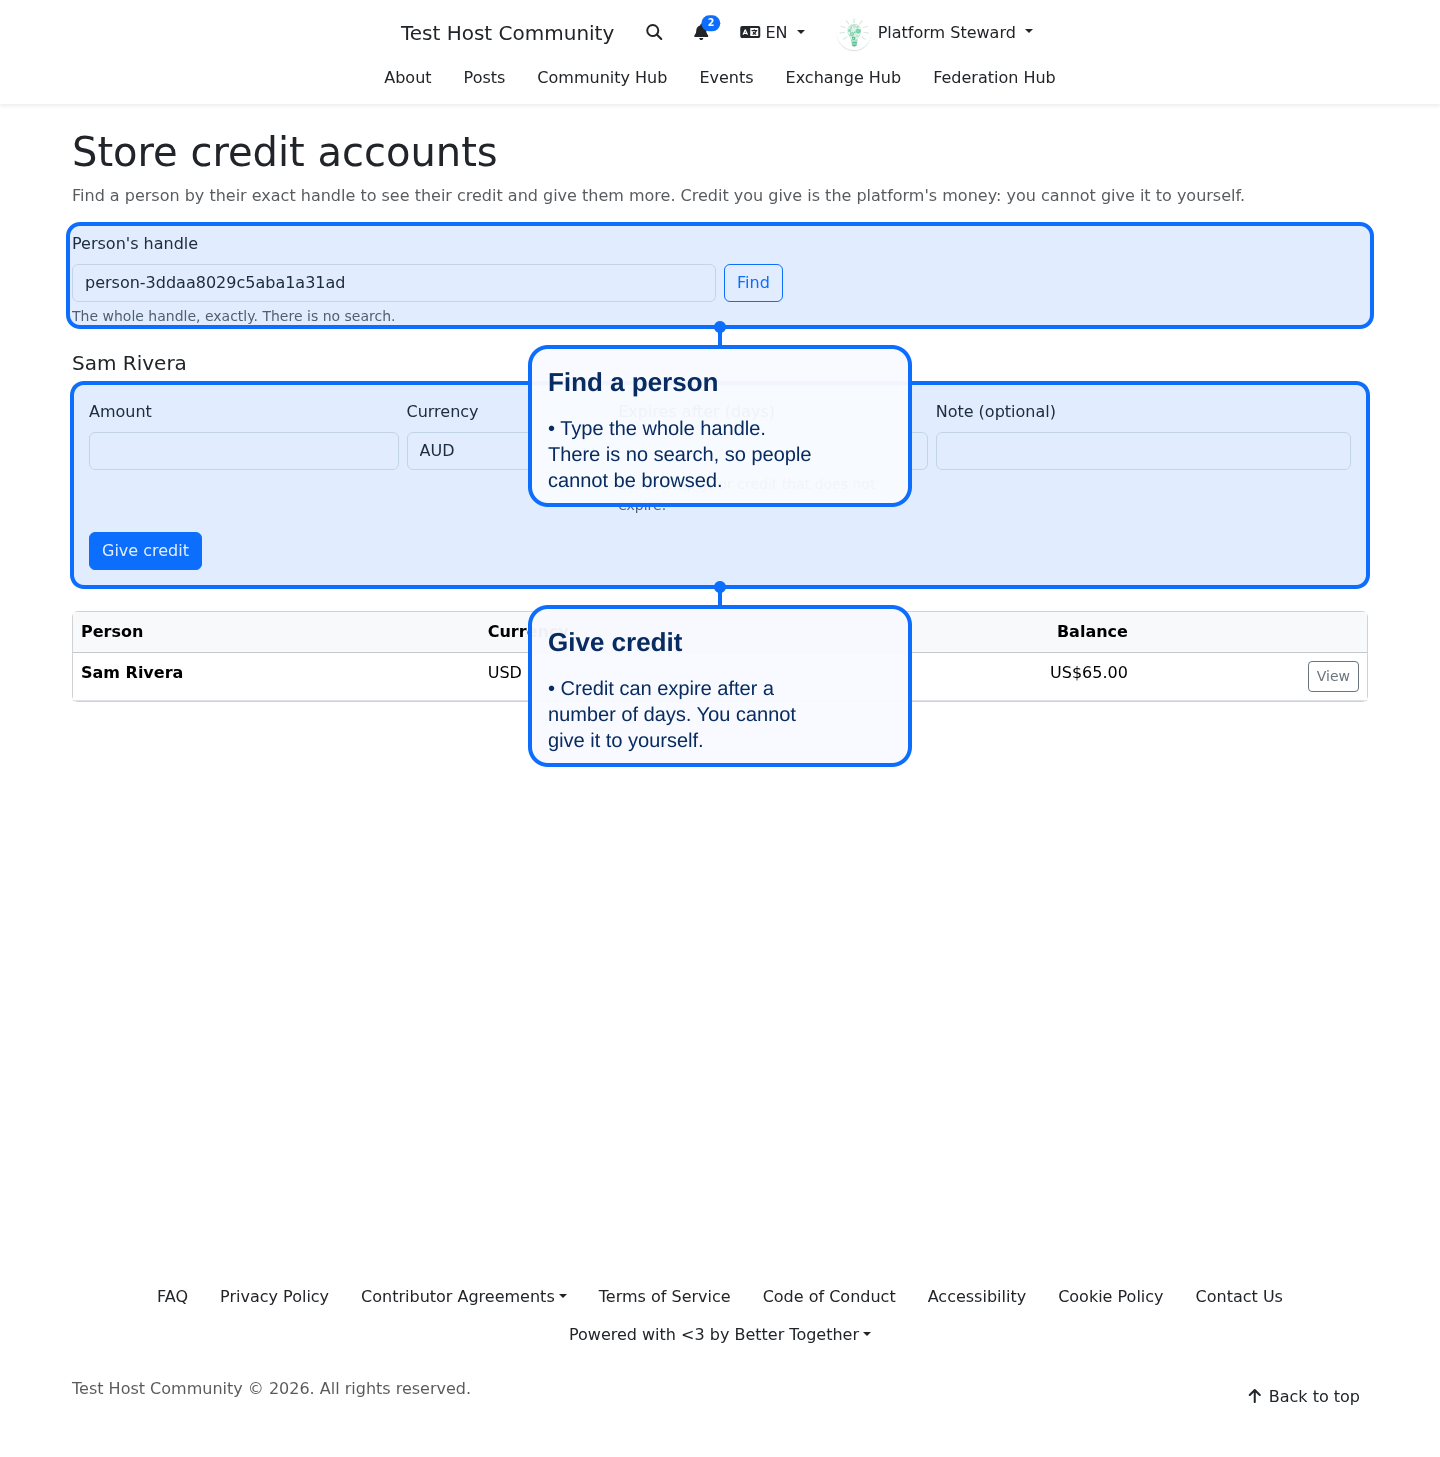
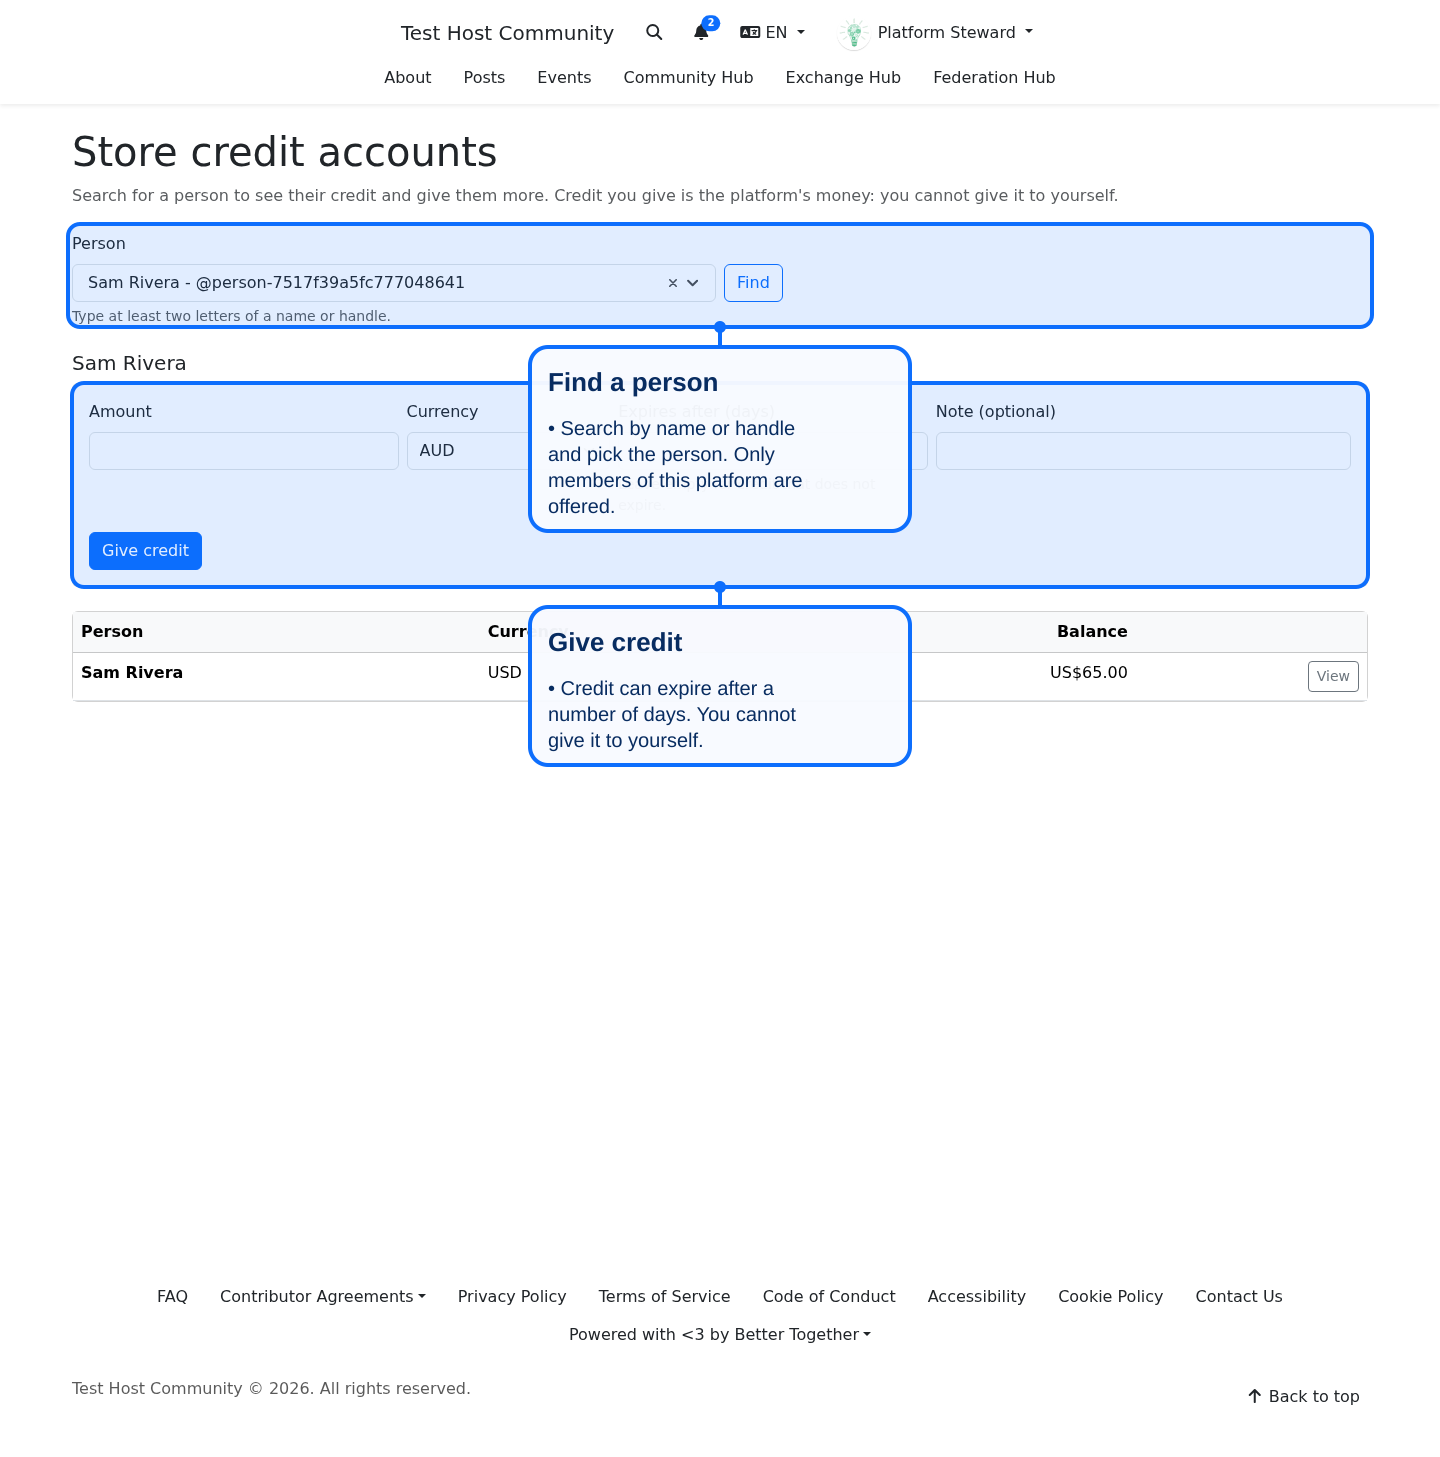
feat(billing): pick a person with the slim-select to find store credit
The steward lookup asked for an exact handle. It now uses the shared
better-together--slim-select controller with a billing-scoped people
search (name or start of a handle, at least two characters, 20 results,
platform members only, steward permission, throttled). The grant form
carries person_id only. Locales, docs, specs and screenshots updated.

diff --git a/spec/requests/better_together/billing/credit_accounts_controller_spec.rb b/spec/requests/better_together/billing/credit_accounts_controller_spec.rb
@@ -58,30 +58,67 @@ RSpec.describe BetterTogether::Billing::CreditAccountsController do
       get accounts_path
 
       expect(response).to have_http_status(:ok)
-      expect(response.body).to include('billing-credit-accounts-page', 'billing-credit-lookup-form', 'billing-credit-lookup-handle',
+      expect(response.body).to include('billing-credit-accounts-page', 'billing-credit-lookup-form', 'billing-credit-lookup-person',
                                        'billing-credit-accounts-table')
       expect_html_content(buyer.name)
     end
 
-    it 'finds a person by their exact handle and offers to give them credit' do
-      get accounts_path(handle: other_buyer.identifier)
+    it 'finds a person picked in the select and offers to give them credit' do
+      create(:better_together_person_platform_membership, joinable: host_platform, member: other_buyer)
+
+      get accounts_path(person_id: other_buyer.id)
 
       expect(response.body).to include('billing-credit-holder', 'billing-credit-grant-form', 'billing-credit-grant-amount',
                                        'billing-credit-grant-btn')
       expect_html_content(other_buyer.name)
     end
 
-    it 'finds no one from part of a handle, so it cannot be used to browse people' do
-      get accounts_path(handle: other_buyer.identifier[0, 4])
+    it 'says so for a person id that is not on this platform' do
+      get accounts_path(person_id: SecureRandom.uuid)
 
       expect(response.body).to include('billing-credit-lookup-failed')
       expect(response.body).not_to include('billing-credit-grant-form')
     end
 
-    it 'says the same for a handle that does not exist' do
-      get accounts_path(handle: 'nobody-by-this-name')
+    describe 'GET people (the select search)' do
+      let(:member) do
+        create(:better_together_person_platform_membership, joinable: host_platform, member: other_buyer)
+        other_buyer
+      end
 
-      expect(response.body).to include('billing-credit-lookup-failed')
+      it 'finds platform members by the start of a handle' do
+        get better_together.billing_people_credit_accounts_path(locale:, search: member.identifier[0, 5]), as: :json
+
+        expect(response.parsed_body).to include(a_hash_including('value' => member.id, 'text' => member.select_option_title))
+      end
+
+      it 'finds platform members by part of a name' do
+        get better_together.billing_people_credit_accounts_path(locale:, search: member.name[1, 4]), as: :json
+
+        expect(response.parsed_body.pluck('value')).to include(member.id)
+      end
+
+      it 'returns nothing for a term shorter than two characters, so it cannot list everyone' do
+        get better_together.billing_people_credit_accounts_path(locale:, search: 'a'), as: :json
+
+        expect(response.parsed_body).to eq([])
+      end
+
+      it 'leaves out people who are not members of this platform' do
+        stranger = create(:better_together_person)
+
+        get better_together.billing_people_credit_accounts_path(locale:, search: stranger.identifier), as: :json
+
+        expect(response.parsed_body.pluck('value')).not_to include(stranger.id)
+      end
+
+      it 'turns a signed-in non-steward away' do
+        sign_in buyer_user
+
+        get better_together.billing_people_credit_accounts_path(locale:, search: 'ab'), as: :json
+
+        expect(response).not_to have_http_status(:ok)
+      end
     end
 
     it 'shows an account\'s lots and entries, with who gave it' do

diff --git a/app/controllers/better_together/billing/credit_accounts_controller.rb b/app/controllers/better_together/billing/credit_accounts_controller.rb
@@ -2,19 +2,29 @@
 
 module BetterTogether
   module Billing
-    # A steward finds a person's store credit by their exact handle (there is no search and no list of
-    # everyone), sees every lot and entry, and can give credit from there (see CreditGrantsController).
+    # A steward picks a person (a search over this platform's members, see #people), sees their credit, every
+    # lot and entry, and can give credit from there (see CreditGrantsController).
     class CreditAccountsController < ApplicationController
       include OwnerScoped
+
+      PEOPLE_LIMIT = 20
 
       after_action :verify_authorized
 
       def index
         authorize BetterTogether::Billing::CreditAccount, :index?
-        @handle = params[:handle].to_s.strip
-        @holder = find_holder(@handle) if @handle.present?
-        @lookup_failed = @handle.present? && @holder.nil?
+        @person_id = params[:person_id].to_s.strip
+        @holder = find_holder(@person_id) if @person_id.present?
+        @lookup_failed = @person_id.present? && @holder.nil?
         @accounts = listed_accounts
+      end
+
+      # Options for the person select: [{ value:, text: }], at most 20, matching a name or the start of a handle.
+      def people
+        authorize BetterTogether::Billing::CreditAccount, :index?
+        render json: matching_people(params[:search].to_s.strip).limit(PEOPLE_LIMIT).map { |person|
+          { value: person.id, text: person.select_option_title }
+        }
       end
 
       def show
@@ -37,8 +47,37 @@ module BetterTogether
         listed_with_holders.where.not(balance_cents: 0).order(updated_at: :desc).limit(50)
       end
 
-      # Exactly the handle, never a partial match, so this cannot be used to browse people.
-      def find_holder(handle) = BetterTogether::Person.find_by(identifier: handle.downcase)
+      # Only people who belong to this platform (or, on the host platform, its community), so a steward cannot
+      # reach anyone outside it. Same membership rule as the invitation search.
+      def platform_people
+        ids = BetterTogether::PersonPlatformMembership.active.where(joinable: billing_owner).pluck(:member_id)
+        community = billing_owner.community
+        if billing_owner.host? && community.present?
+          ids |= BetterTogether::PersonCommunityMembership.active.where(joinable: community).pluck(:member_id)
+        end
+        BetterTogether::Person.where(id: ids)
+      end
+
+      def find_holder(person_id) = platform_people.find_by(id: person_id)
+
+      # A search term is needed, so the endpoint does not list everyone.
+      def matching_people(term)
+        return BetterTogether::Person.none if term.length < 2
+
+        like = BetterTogether::Person.sanitize_sql_like(term)
+        matches = platform_people.where(id: named_like(like)).or(platform_people.where(id: handled_like(like)))
+        matches.includes(:string_translations).order(:identifier)
+      end
+
+      def named_like(like)
+        values = Mobility::Backends::ActiveRecord::KeyValue::StringTranslation.arel_table
+        BetterTogether::Person.joins(:string_translations).where(values[:key].eq('name'))
+                              .where(values[:value].matches("%#{like}%")).select(:id)
+      end
+
+      def handled_like(like)
+        BetterTogether::Person.where(BetterTogether::Person.arel_table[:identifier].matches("#{like}%")).select(:id)
+      end
     end
   end
 end

diff --git a/spec/docs_screenshots/better_together/billing_credit_spec.rb b/spec/docs_screenshots/better_together/billing_credit_spec.rb
@@ -24,6 +24,7 @@ RSpec.describe 'Documentation screenshots for store credit', # rubocop:disable R
     skip 'Set RUN_DOCS_SCREENSHOTS=1 to generate documentation screenshots.' unless ENV['RUN_DOCS_SCREENSHOTS'] == '1'
 
     Current.platform = host_platform
+    create(:better_together_person_platform_membership, joinable: host_platform, member: holder)
     host_platform.billing_processor_settings.create!(processor: 'cash', enabled: true, acknowledge: true,
                                                      settings: { 'instructions' => 'At the hall' })
     steward = create(:better_together_person)
@@ -47,7 +48,7 @@ RSpec.describe 'Documentation screenshots for store credit', # rubocop:disable R
       device: :both,
       metadata: screenshot_metadata(flow: 'billing_credit_accounts_lookup'),
       callouts: [{ id: 'lookup', selector: '#billing-credit-lookup-form', title: 'Find a person',
-                   bullets: ['Type the whole handle. There is no search, so people cannot be browsed.'] },
+                   bullets: ['Search by name or handle and pick the person. Only members of this platform are offered.'] },
                  { id: 'grant', selector: '#billing-credit-grant-form', title: 'Give credit',
                    bullets: ['Credit can expire after a number of days. You cannot give it to yourself.'] }],
       narrative: {
@@ -59,7 +60,7 @@ RSpec.describe 'Documentation screenshots for store credit', # rubocop:disable R
       }
     ) do
       capybara_login_as_platform_manager
-      visit "/#{I18n.default_locale}/billing/credit_accounts?handle=#{holder.identifier}"
+      visit "/#{I18n.default_locale}/billing/credit_accounts?person_id=#{holder.id}"
       expect(page).to have_css('#billing-credit-grant-form')
       page.execute_script("document.querySelector('#billing-credit-grant-form').scrollIntoView({block: 'center'})")
     end

diff --git a/spec/features/better_together/billing/credit_person_lookup_spec.rb b/spec/features/better_together/billing/credit_person_lookup_spec.rb
@@ -1,0 +1,39 @@
+# frozen_string_literal: true
+
+require 'rails_helper'
+
+# A steward finds someone's store credit by searching the person select (SlimSelect), not by typing an exact
+# handle. Follows the layered-waiting pattern for SlimSelect (AGENTS.md).
+RSpec.describe 'Billing credit person lookup', :accessibility, :js, :skip_host_setup, retry: 0 do
+  include_context 'with offline payment fixtures'
+  include_context 'with billing switched on'
+
+  let!(:member) { create(:better_together_person, name: 'Marguerite Okonkwo') }
+
+  before do
+    configure_host_platform
+    enable_offline('cash')
+    create(:better_together_person_platform_membership, joinable: host_platform, member:)
+    capybara_login_as_platform_manager
+    visit "/#{I18n.default_locale}/billing/credit_accounts"
+  end
+
+  it 'finds a member by part of their name and opens their credit' do
+    expect(page).to have_css('#billing-credit-lookup-person', visible: :all, wait: 10)
+    expect(page).to have_css('#billing-credit-lookup-form .ss-main', wait: 5)
+    find('#billing-credit-lookup-form .ss-main').click
+    find('.ss-content .ss-search input').set('okonk')
+    find('.ss-content .ss-option', text: 'Marguerite Okonkwo', wait: 10).click
+    click_button 'billing-credit-lookup-btn'
+
+    expect(page).to have_css('#billing-credit-holder', text: 'Marguerite Okonkwo', wait: 10)
+    expect(page).to have_css('#billing-credit-grant-form')
+  end
+
+  it 'passes the accessibility scan' do
+    expect(page).to have_css('#billing-credit-lookup-form .ss-main', wait: 10)
+
+    expect(page).to be_axe_clean.within('#billing-credit-lookup-form')
+                                .according_to(:wcag2a, :wcag2aa, :wcag21a, :wcag21aa)
+  end
+end

diff --git a/spec/config/rack/billing_credit_throttles_spec.rb b/spec/config/rack/billing_credit_throttles_spec.rb
@@ -10,14 +10,14 @@ RSpec.describe 'Billing credit throttles' do # rubocop:disable RSpec/DescribeCla
     Rack::Attack::Request.new(Rack::MockRequest.env_for("#{path}#{"?#{query}" if query.present?}", method:, 'REMOTE_ADDR' => '203.0.113.9'))
   end
 
-  it 'limits lookups by handle and credit grants, per address' do
+  it 'limits person searches and credit grants, per address' do
     lookup = throttles.fetch('billing/credit_lookup/ip')
     grants = throttles.fetch('billing/credit_grants/ip')
 
-    expect(lookup.limit).to eq(30)
-    expect(lookup.block.call(request_for('/en/billing/credit_accounts', params: { handle: 'someone' }))).to be_present
+    expect(lookup.limit).to eq(60)
+    expect(lookup.block.call(request_for('/en/billing/credit_accounts/people', params: { search: 'someone' }))).to be_present
     expect(lookup.block.call(request_for('/en/billing/credit_accounts'))).to be_nil
-    expect(lookup.block.call(request_for('/en/billing/credit_accounts/abc', params: { handle: 'x' }))).to be_nil
+    expect(lookup.block.call(request_for('/en/billing/credit_accounts/abc', params: { search: 'x' }))).to be_nil
     expect(grants.limit).to eq(20)
     expect(grants.block.call(request_for('/en/billing/credit_grants', method: 'POST'))).to be_present
     expect(grants.block.call(request_for('/en/billing/credit_grants'))).to be_nil

diff --git a/config/initializers/rack_attack.rb b/config/initializers/rack_attack.rb
@@ -129,10 +129,10 @@ module Rack
       req.ip if req.post? && req.path.match?(%r{/billing/orders/[^/]+/pay\z})
     end
 
-    # A steward finding a person's store credit by handle, and giving credit. Cap lookups so they cannot be
-    # used to test handles in bulk, and grants because each one tells the holder.
-    throttle('billing/credit_lookup/ip', limit: 30, period: 1.minute) do |req|
-      req.ip if req.get? && req.path.match?(%r{/billing/credit_accounts/?\z}) && req.params['handle'].present?
+    # A steward searching for a person to find their store credit, and giving credit. Cap searches so they
+    # cannot be used to browse people in bulk, and grants because each one tells the holder.
+    throttle('billing/credit_lookup/ip', limit: 60, period: 1.minute) do |req|
+      req.ip if req.get? && req.path.match?(%r{/billing/credit_accounts/people/?\z})
     end
     throttle('billing/credit_grants/ip', limit: 20, period: 1.minute) do |req|
       req.ip if req.post? && req.path.match?(%r{/billing/credit_grants/?\z})

diff --git a/spec/requests/better_together/billing/credit_grants_controller_spec.rb b/spec/requests/better_together/billing/credit_grants_controller_spec.rb
@@ -12,7 +12,7 @@ RSpec.describe BetterTogether::Billing::CreditGrantsController do
   def grants_path = better_together.billing_credit_grants_path(locale:)
 
   def params_for(holder = buyer, **overrides)
-    { person_id: holder.id, handle: holder.identifier, token: 'form-1', amount: '25.00', currency: 'USD' }.merge(overrides)
+    { person_id: holder.id, token: 'form-1', amount: '25.00', currency: 'USD' }.merge(overrides)
   end
 
   def account_for(holder = buyer) = host_platform.billing_credit_accounts.find_by(holder:, currency: 'USD')
@@ -82,7 +82,7 @@ RSpec.describe BetterTogether::Billing::CreditGrantsController do
     it 'never lets a steward give themselves credit' do
       post grants_path, params: params_for(steward)
 
-      expect(response).to redirect_to(better_together.billing_credit_accounts_path(locale:, handle: steward.identifier))
+      expect(response).to redirect_to(better_together.billing_credit_accounts_path(locale:, person_id: steward.id))
       expect(account_for(steward)).to be_nil
     end
 

diff --git a/config/routes/billing.rb b/config/routes/billing.rb
@@ -31,7 +31,7 @@ end
 # (`resources :communities, only: [] { concerns :billing_plans }`) can reuse it later.
 # Not nested under the host dashboard and carrying no route-level permission check:
 # access is sign-in plus Pundit on the billing owner (see Billing::OwnerScoped).
-concern :billing_plans do
+concern :billing_plans do # rubocop:disable Metrics/BlockLength
   namespace :billing do
     resources :plans, except: :destroy do
       member do
@@ -53,6 +53,8 @@ concern :billing_plans do
     resource :checkout, only: %i[new create]
     # A person's own store credit, and what a steward can see and give.
     resource :credit, only: :show, controller: 'credits'
+    # The person select on the steward screen searches here (before :id so it is not read as one).
+    get 'credit_accounts/people', to: 'credit_accounts#people', as: :people_credit_accounts
     resources :credit_accounts, only: %i[index show]
     resources :credit_grants, only: :create
     resources :agreement_requirements, only: %i[index create destroy]

diff --git a/spec/dom_contracts/billing_credit_spec.rb b/spec/dom_contracts/billing_credit_spec.rb
@@ -33,10 +33,11 @@ RSpec.describe 'Billing store credit DOM contract', type: :request do # rubocop:
 
   it 'exposes the steward\'s lookup, grant form and account list' do
     sign_in steward_user
+    create(:better_together_person_platform_membership, joinable: host_platform, member: buyer)
 
-    get "/#{locale}/billing/credit_accounts?handle=#{buyer.identifier}"
+    get "/#{locale}/billing/credit_accounts?person_id=#{buyer.id}"
 
-    expect_ids('billing-credit-accounts-page', 'billing-credit-lookup-form', 'billing-credit-lookup-handle', 'billing-credit-lookup-btn',
+    expect_ids('billing-credit-accounts-page', 'billing-credit-lookup-form', 'billing-credit-lookup-person', 'billing-credit-lookup-btn',
                'billing-credit-holder', 'billing-credit-grant-form', 'billing-credit-grant-amount', 'billing-credit-grant-currency',
                'billing-credit-grant-expires', 'billing-credit-grant-note', 'billing-credit-grant-btn', 'billing-credit-accounts-table',
                dom_id(account))

diff --git a/app/controllers/better_together/billing/credit_grants_controller.rb b/app/controllers/better_together/billing/credit_grants_controller.rb
@@ -21,7 +21,7 @@ module BetterTogether
       private
 
       def back(kind, key)
-        redirect_to billing_credit_accounts_path(locale: I18n.locale, handle: params[:handle]),
+        redirect_to billing_credit_accounts_path(locale: I18n.locale, person_id: params[:person_id]),
                     kind => t("better_together.billing.credit.#{key}")
       end
 

diff --git a/docs/billing/store_credit.md b/docs/billing/store_credit.md
@@ -76,10 +76,10 @@ Credit forced the question "is this a method outside a vendor?" to be split, bec
 | Who | Where | What |
 |---|---|---|
 | The holder | `/:locale/billing/credit` | Per currency: what can be spent now, each amount left with when it expires and what it may pay for, and the newest 50 entries. Only their own accounts on this platform are ever loaded. Linked from the orders list |
-| A steward | `/:locale/billing/credit_accounts` | Find a person by their **exact handle** (there is no search and no list of everyone, and lookups are throttled per address), see accounts that hold a balance, and **give credit** (amount, currency, optional days to expiry, optional note). Linked from the payment methods list |
+| A steward | `/:locale/billing/credit_accounts` | Pick a person from a **search** over this platform's members (name or the start of a handle, at least two characters, 20 results at most, never a full list; searches are throttled per address), see accounts that hold a balance, and **give credit** (amount, currency, optional days to expiry, optional note). Linked from the payment methods list |
 | A steward | `/:locale/billing/credit_accounts/:id` | Every lot and entry, with who gave it and why |
 
-Giving credit is `Credit::Grant` with the steward as actor. The form carries a token that becomes the idempotency key, so a double click gives it once, and the service refuses a steward giving themselves credit. Failures answer uniformly (an unknown handle and a handle with no match look the same), so the lookup is no oracle for who exists.
+Giving credit is `Credit::Grant` with the steward as actor. The form carries a token that becomes the idempotency key, so a double click gives it once, and the service refuses a steward giving themselves credit. The search is limited to members of the platform and needs steward permission, and an id that is not a member looks the same as one that does not exist.
 
 The holder is told with the `credit_granted` notice (audience `holder`, not critical): how much, until when if it expires, and a link to their credit page. It is sent for credit a steward gives; credit the system gives (a refund, a promotion) is silent here. See [notifications.md](notifications.md).
 
